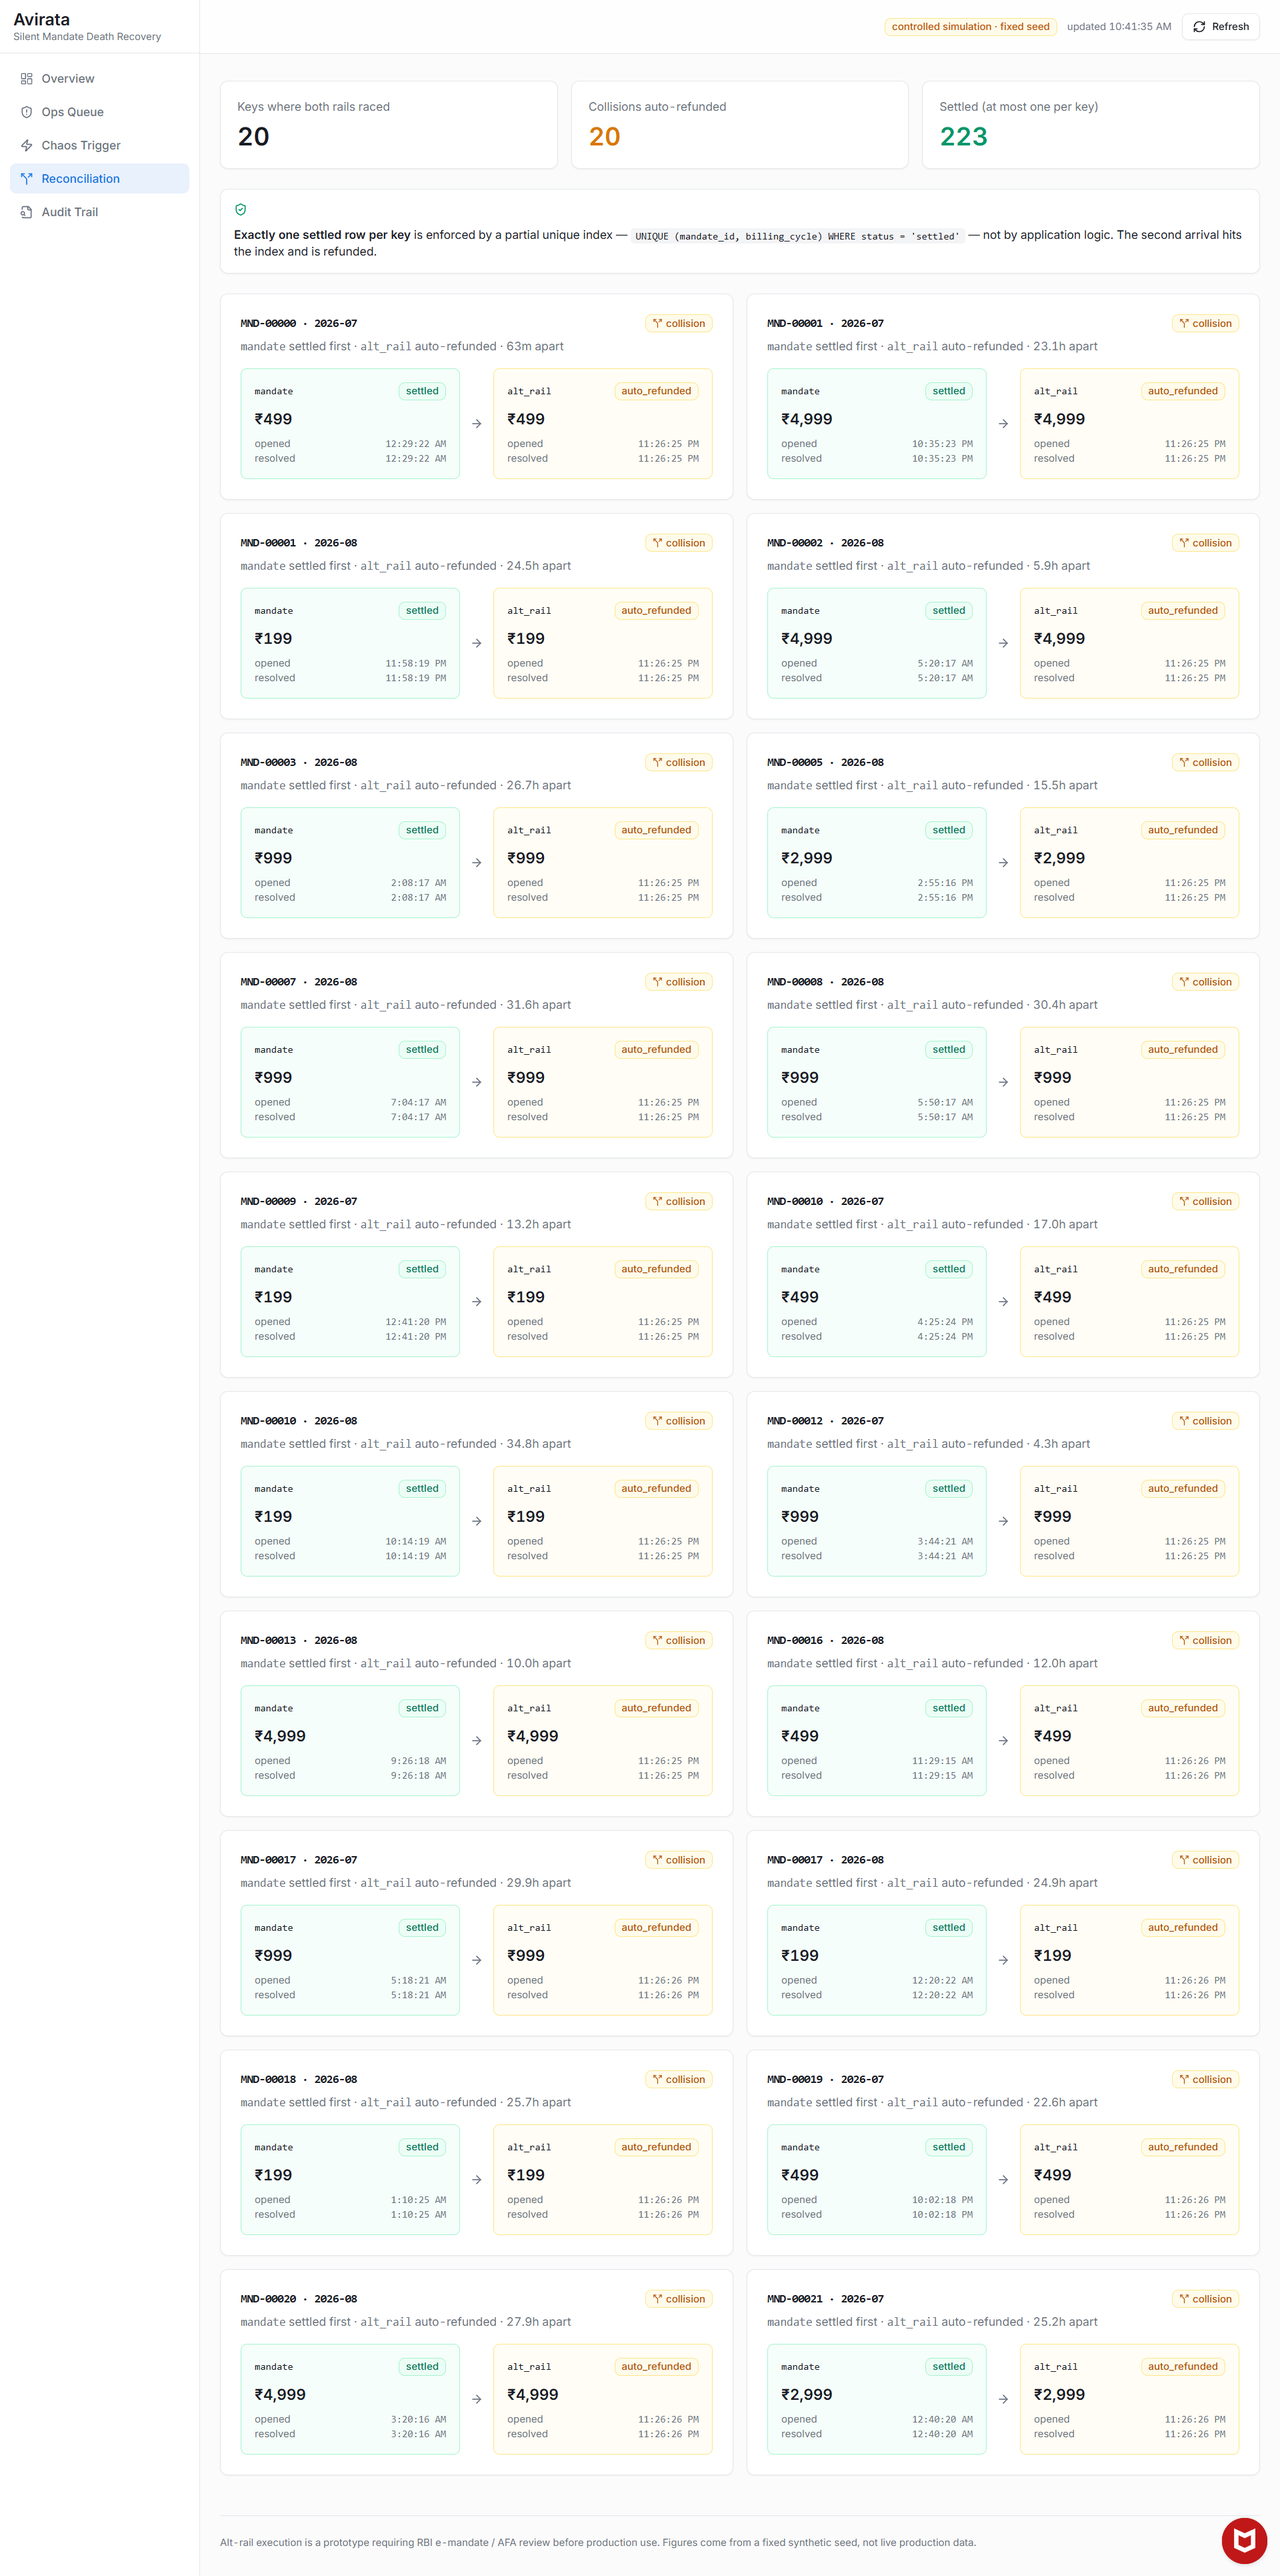
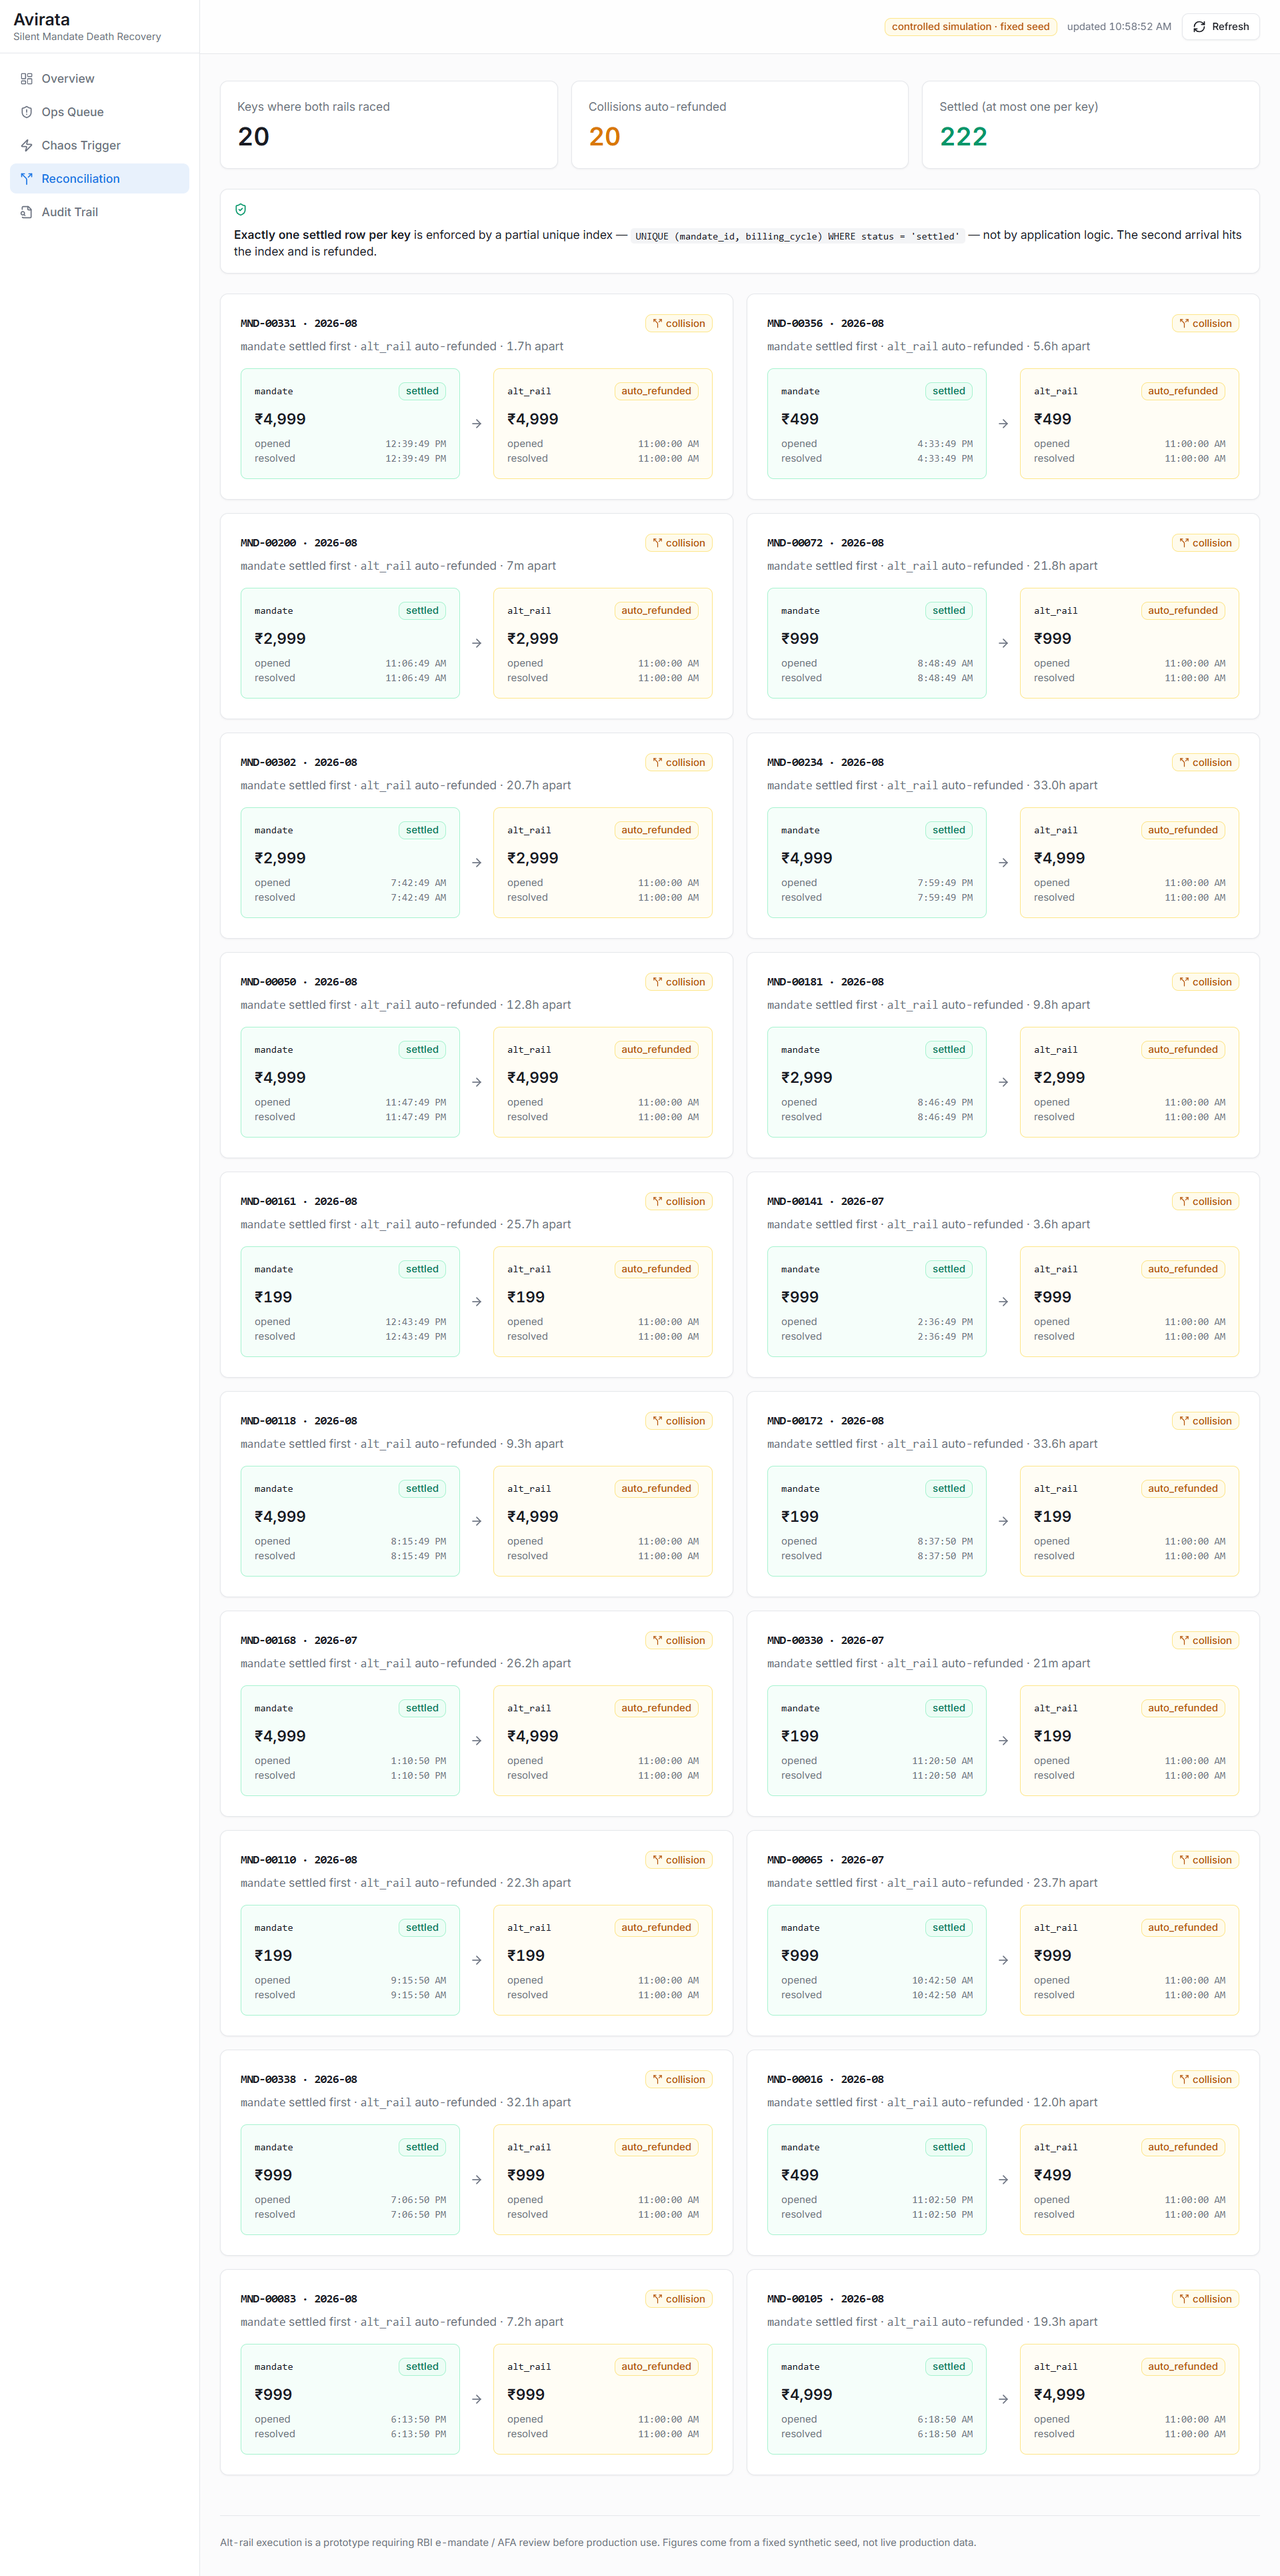
docs: re-sync dashboard and reconciliation captions to fresh screenshots

diff --git a/README.md b/README.md
@@ -158,34 +158,46 @@ What each layer owns, and the specific failure it exists to prevent:
 
 ![Overview tab — recovered vs control, SLA rate, MTTR by tier, anomaly table](docs/screenshots/dashboard.png)
 
-The headline ₹60,144 is treatment minus control (₹3,97,887 against ₹3,37,743), not gross
-collections — the arms hold 144 and 145 mandates, so ₹434 per mandate is the comparable
-figure. MTTR is split by diagnosis tier (16.7h / 15.8h / 12.9h) and counts only actions that
-reached a terminal state; the 43 still in flight are excluded rather than counted as zero,
-which would drag the average down. The anomaly table applies the N ≥ 30 gate per segment
-before computing any MAD, so a thin segment reports `insufficient_data` instead of a spike.
+The headline ₹60,144 is treatment minus control on settled ledger amounts, not gross
+collections — the arms hold 144 and 145 mandates, so the ₹434 per mandate underneath it is
+the comparable figure. The SLA tile reads 50.8%, and its denominator is every dispatched
+action (99 of 195) rather than only the resolved ones, so the 43 still in flight cannot
+flatter it. MTTR is split by diagnosis tier and counts only actions that reached a terminal
+state, which is why each tier reports its in-flight count beside its resolved one — 24, 30
+and 8 against 166, 64 and 9. The anomaly table applies the N ≥ 30 gate per segment before
+computing any MAD, so a thin segment would report `insufficient_data` rather than a spike;
+here all four segments clear it, with 134 anomalies flagged in the last 24h.
 
 ### Ops Queue
 
-![Ops Queue — safe holds, manual reviews and quarantined strings with risk and SLA columns](docs/screenshots/ops_queue.png)
+![Ops Queue — safe holds, manual reviews, quarantined strings and TTL escalations with risk and SLA columns](docs/screenshots/ops_queue.png)
 
-90 cases the pipeline decided not to act on by itself: SAFE_HOLD and MANUAL_REVIEW actions,
-plus 17 decline strings that fell to Tier 3 quarantine. Every row carries the risk score that
-produced it and its own SLA clock — 22.8h remaining here, 0 breached. Approving a quarantined
-string writes a Tier 1 rule, which is where the 10 Tier 1 rules in the counter above came
-from; the next event carrying that string resolves with no LLM call.
+94 cases the pipeline decided not to act on by itself, in four kinds: SAFE HOLD and MANUAL
+REVIEW actions the policy withheld, 19 decline strings that fell to Tier 3 quarantine, and
+ESCALATION rows the TTL watchdog swept out of `processing`. Every action row carries the risk
+score that produced it — 0.048 for the `authentication_failure` on MND-00271 · 2026-08 at the
+top, 0.594 for the undiagnosed MND-00327 below it — next to its own SLA clock, showing 11.7h
+to 12.8h left and 0 breached. Quarantine rows are the only ones with an Approve button,
+because they are the only ones where a human decision changes future behaviour: approving
+writes a Tier 1 rule, which is where the 10 in the Tier 1 rules counter came from, and the
+next event carrying that string then resolves with no LLM call. The unmapped strings are
+visible in the DETAIL column — `gateway declined: reason unclear`, `ERR_UNMAPPED_9007`,
+`XZ-991` — with chaos-injected `MYSTERIOUS_FAILURE_XYZ` rows at the bottom.
 
 ### Chaos trigger
 
-![Chaos trigger — injecting MYSTERIOUS_FAILURE_XYZ and the four-stage pipeline trace](docs/screenshots/chaos_trigger.png)
+![Chaos trigger — injecting ERR_UNMAPPED_9007 and the four-stage pipeline trace](docs/screenshots/chaos_trigger.png)
 
 Pushes one synthetic decline through the real endpoints and shows each stage as it returns;
 the preset row includes `<script>alert(1)</script>` to exercise sanitization. Here
-`MYSTERIOUS_FAILURE_XYZ` at ₹4,800 clears Detect as normal (N=60, MAD 1.000), then fails to
-map at Tier 2 and quarantines at confidence 0.10. Policy is the part worth reading: risk
-scored 0.808 and the cost-benefit check passed (expected loss ₹1,920 against ₹1,600 to run
-the alt rail), and it still returned MANUAL_REVIEW rather than move money, because an
-undiagnosed failure is not something to act on — Reconcile is skipped for the same reason.
+`ERR_UNMAPPED_9007` at ₹9,000 clears Detect as normal — an observed 5 against a median of 3,
+MAD 1.000 on a sample of 60, inside a threshold of 3 — then fails to map at Tier 2 and
+quarantines at Tier 3 with confidence 0.10, the reply recorded as `llm could not map the
+string (cause='unknown')`. Policy is the part worth reading: it scored risk 0.8283 and the
+cost-benefit check *passed*, an expected loss of ₹3,600 clearing the ₹1,600 alt-rail cost,
+and it still returned MANUAL_REVIEW rather than move money. The recorded reason is `diagnosis
+quarantined — no automated action on an undiagnosed failure`, and Reconcile is skipped on the
+same grounds — quarantine outranks two gates that both said yes.
 
 ### Reconciliation
 
@@ -194,20 +206,25 @@ undiagnosed failure is not something to act on — Reconcile is skipped for the 
 Every key where both rails opened a hold: 20 in this run, all 20 closed by refunding the
 loser, against 222 settled rows overall. Each card shows both ledger rows for one key — the
 mandate rail settled, the alt rail hit `UNIQUE (mandate_id, billing_cycle) WHERE status =
-'settled'` and was auto-refunded for the identical amount. The gaps run from 63 minutes to
-34.8 hours, far outside the 300-second hold window, which is the case a `SELECT`-then-`UPDATE`
-check tends to miss.
+'settled'` and was auto-refunded for the identical amount. The gaps run from 7 minutes to
+33.6 hours — even the tightest of them is outside the 300-second hold window, which is the
+case a `SELECT`-then-`UPDATE` check tends to miss.
 
 ### Audit trail
 
-![Audit trail — decision trace for MND-00271, from decline event through TTL escalation](docs/screenshots/audit.png)
+![Audit trail — decision trace for MND-00001 / 2026-07, a control-arm key with no action dispatched](docs/screenshots/audit.png)
 
 One key's whole history, assembled from what each layer recorded at the time rather than
-reconstructed afterwards. MND-00271 / 2026-08 declined with `U54`, resolved at Tier 1 as
-`authentication_failure` at confidence 1.00 with no LLM call, then took SAFE_HOLD with the
-arithmetic attached: score 0.048 against a 0.60 threshold, expected loss ₹79.60 against
-₹1,600 to run the alt rail. Nothing ever settled on it, so the TTL watchdog escalated it at
-10:58 PM; the raw `GET /api/audit/decision/...` response sits below the trace.
+reconstructed afterwards. MND-00001 / 2026-07 carries three decline events in the one billing
+cycle — `M014`, `TECHNICAL_ERROR` and `U69`, all on AXIS:UPI_AUTOPAY at ₹4,999 — and all
+three are tagged `control`, which is what makes this particular trace worth reading. The
+control arm is ingested and recorded like everything else but never receives a recovery
+action, so DIAGNOSES is empty and ACTION reads *No action was dispatched*; that absence is
+the counterfactual the ₹ recovered figure is measured against, shown rather than asserted.
+Reconciliation still carries two rows, because the key was raced — `alt_rail` auto_refunded
+and `mandate` settled, both ₹4,999, resolved about 23 hours apart. The raw
+`GET /api/audit/decision/MND-00001/2026-07` response sits below the trace, so nothing in the
+panel is a rendering the API cannot back.
 
 ## What actually works
 
